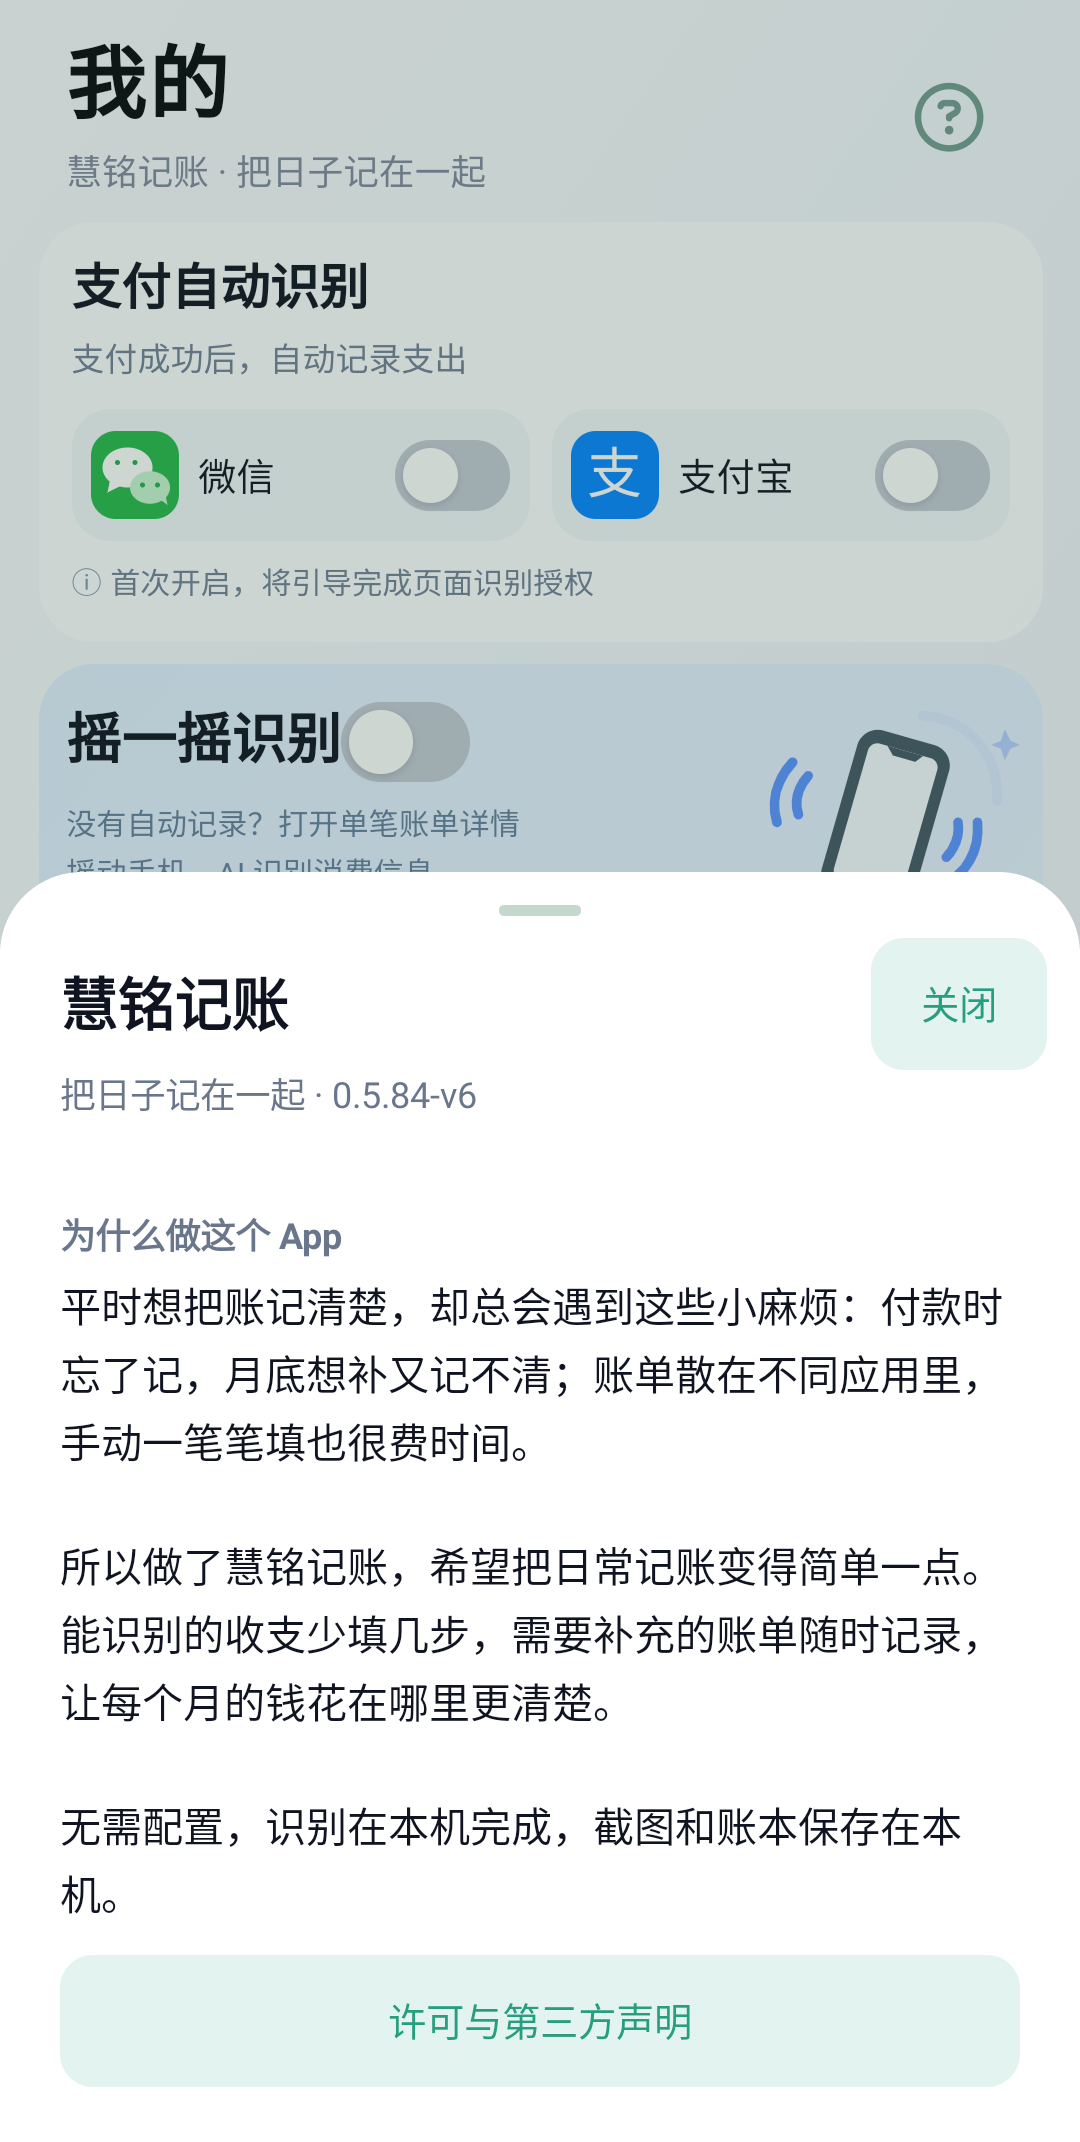
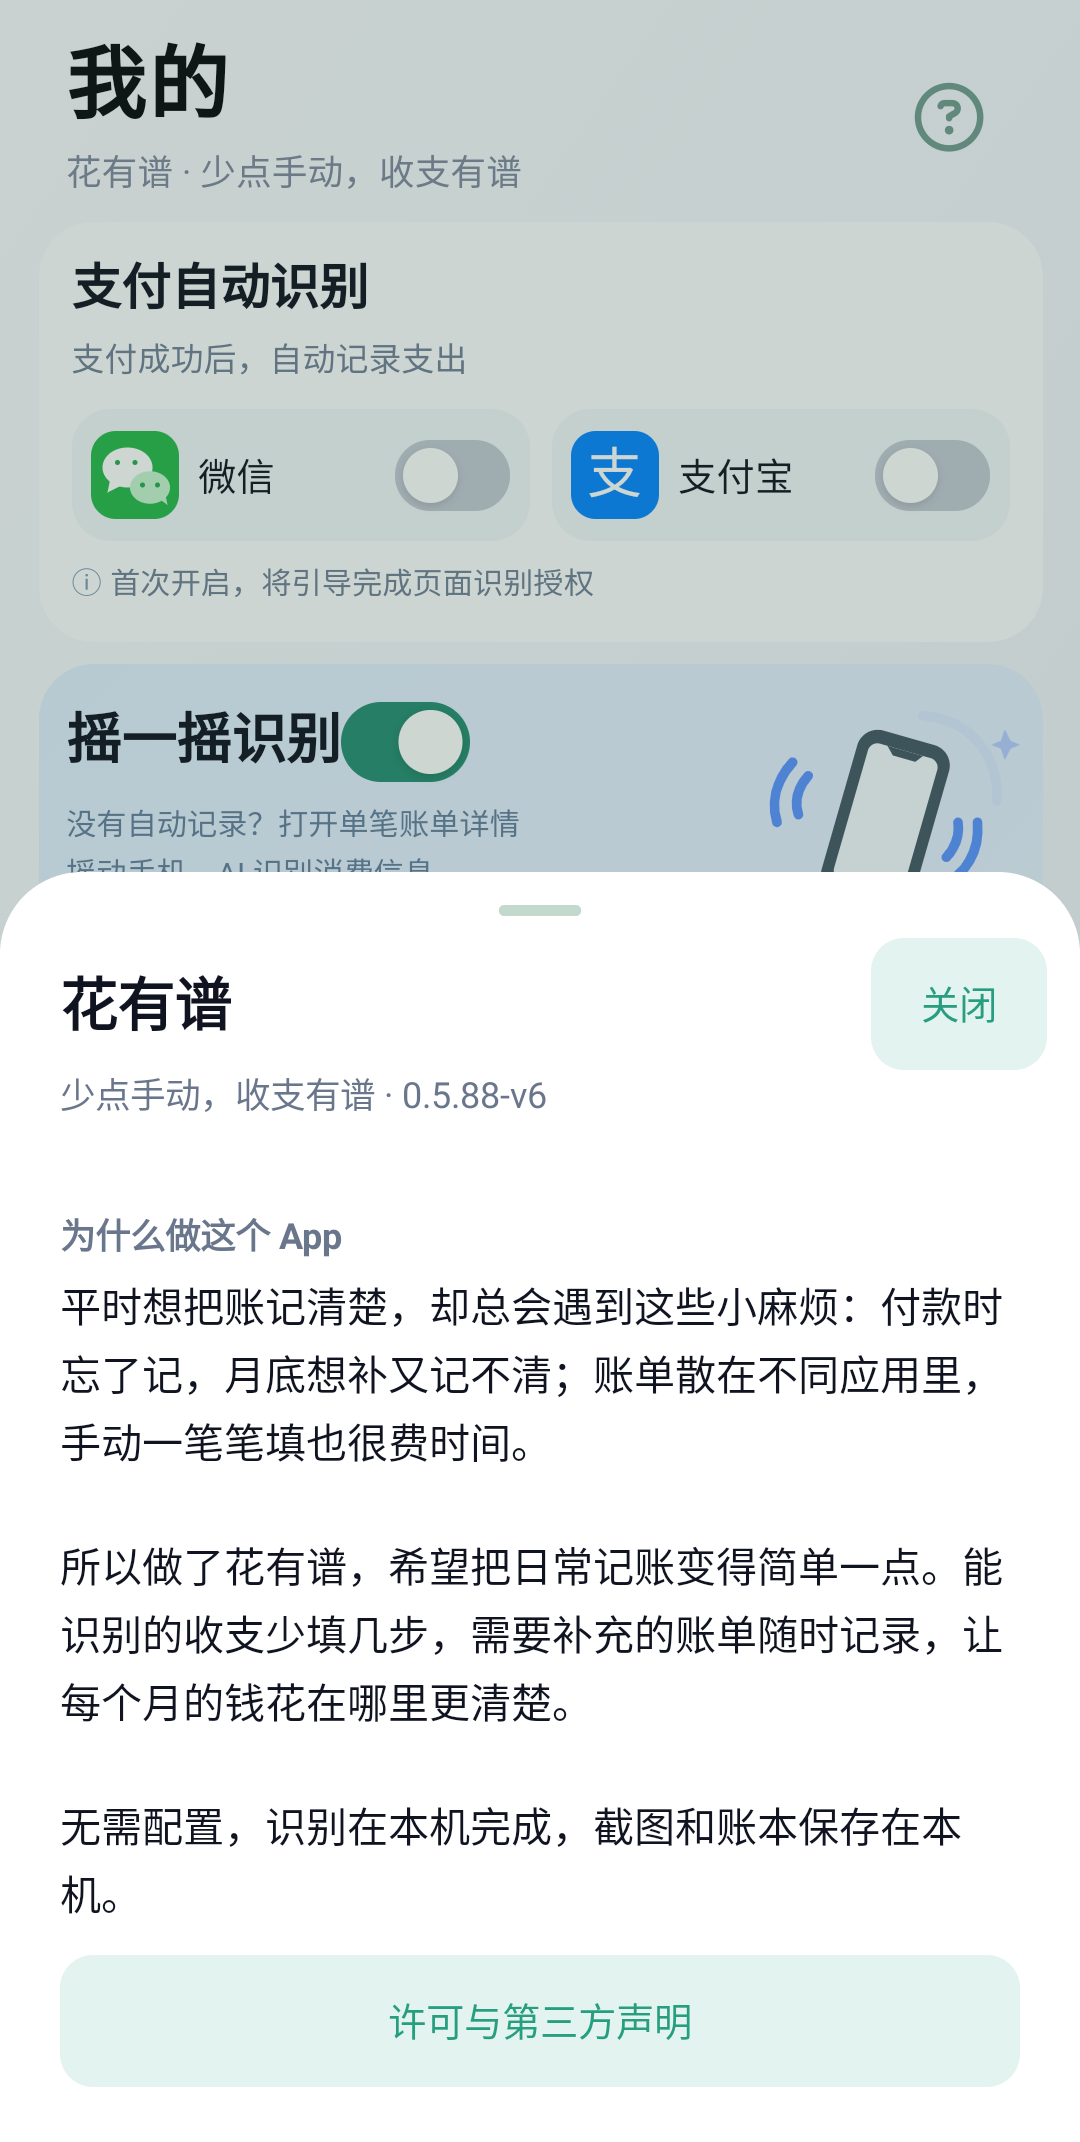
Rename repository and refresh Huayoupu emulator gallery

diff --git a/core/src/main/kotlin/net/ankio/ledger/core/PermissionGuidance.kt b/core/src/main/kotlin/net/ankio/ledger/core/PermissionGuidance.kt
@@ -11,8 +11,8 @@ data class PermissionGuidance(
     val autostartSearch:String,val taskLockInstruction:String
 ) {
     val deviceLabel get()="$label ${device.model} · Android ${device.androidVersion}"
-    val accessibilityHint get()="系统设置搜索「$accessibilitySearch」，找到慧铭记账并开启页面识别"
-    val batteryHint get()="应用信息中检查「$batterySearch」，允许慧铭记账后台运行"
+    val accessibilityHint get()="系统设置搜索「$accessibilitySearch」，找到花有谱并开启页面识别"
+    val batteryHint get()="应用信息中检查「$batterySearch」，允许花有谱后台运行"
     val autostartHint get()="设置中搜索「$autostartSearch」；无此项可跳过"
     val restrictedHint get()=if(device.sdk>=33)"如提示受限，进入应用信息，查找「允许受限设置」并按系统提示验证" else "如系统拦截开启，请进入应用信息，按系统提示检查权限限制"
     val permissionMessage get()="请开启页面识别"
@@ -39,7 +39,7 @@ data class PermissionGuidance(
             val accessibility=when(family){"xiaomi"->"无障碍";"oppo","oneplus","realme","vivo","huawei","honor"->"无障碍";"samsung"->"无障碍 / 已安装的应用";else->"无障碍"}
             val battery=when(family){"xiaomi"->"省电策略 / 无限制";"oppo","oneplus","realme"->"耗电管理 / 允许后台活动";"vivo"->"后台耗电管理";"huawei","honor"->"应用启动管理 / 允许后台活动";"samsung"->"电池 / 不受限制";"meizu"->"后台管理";else->"电池 / 后台使用"}
             val autostart=when(family){"xiaomi"->"自启动管理";"oppo","oneplus","realme","vivo","meizu"->"自启动";"huawei","honor"->"应用启动管理";"samsung"->"后台使用限制 / 从不休眠的应用";else->"应用后台使用"}
-            val task=when(family){"xiaomi"->"最近任务 → 慧铭记账卡片 → 长按检查锁定选项";"oppo","oneplus","realme","vivo"->"最近任务 → 慧铭记账卡片菜单 → 检查锁定选项";"huawei","honor"->"最近任务 → 慧铭记账卡片 → 检查下拉锁定选项";"samsung"->"最近任务 → 慧铭记账图标菜单 → 检查保持打开选项";else->"最近任务 → 慧铭记账卡片菜单 → 检查保留后台选项"}
+            val task=when(family){"xiaomi"->"最近任务 → 花有谱卡片 → 长按检查锁定选项";"oppo","oneplus","realme","vivo"->"最近任务 → 花有谱卡片菜单 → 检查锁定选项";"huawei","honor"->"最近任务 → 花有谱卡片 → 检查下拉锁定选项";"samsung"->"最近任务 → 花有谱图标菜单 → 检查保持打开选项";else->"最近任务 → 花有谱卡片菜单 → 检查保留后台选项"}
             return PermissionGuidance(family,label,clean,accessibility,battery,autostart,task)
         }
     }

diff --git a/.github/REFERENCE.md b/.github/REFERENCE.md
@@ -17,7 +17,7 @@
 
 ## 微信 / 支付宝无感识别优化
 
-以下优化已在 **0.5.85-v6** 完成验证，改名版本 **0.5.87-v6** 保留这些实现。这里的“无感”是指：完成首次授权并开启对应应用后，在受支持的支付成功页上，**无需再摇动手机、手动截图或切回花有谱，即可在本机识别并入账**。识别仍会短暂显示进度或结果；不代表完全没有提示，也不保证所有页面都能自动采集。
+以下优化已在 **0.5.85-v6** 完成验证，改名版本 **0.5.88-v6** 保留这些实现。这里的“无感”是指：完成首次授权并开启对应应用后，在受支持的支付成功页上，**无需再摇动手机、手动截图或切回花有谱，即可在本机识别并入账**。识别仍会短暂显示进度或结果；不代表完全没有提示，也不保证所有页面都能自动采集。
 
 | 优化 | 解决的问题与当前行为 |
 | --- | --- |
@@ -128,7 +128,7 @@ Manifest 不声明 `READ_SMS` / `RECEIVE_SMS` / `POST_NOTIFICATIONS`，没有注
 
 ## 安装与快速开始
 
-需要 **Android 11 或更新版本的 ARM64 手机**。在 [最新 Release](https://github.com/AldenHe/huiming-ledger/releases/latest) 下载安装 APK（改名后文件前缀为 `Huayoupu-Ledger-`，历史版本为 `Huiming-Ledger-`）；同页提供 SHA-256 校验值和对应源码。也可[自行从源码构建](#从源码构建)。
+需要 **Android 11 或更新版本的 ARM64 手机**。在 [最新 Release](https://github.com/AldenHe/huayoupu-ledger/releases/latest) 下载安装 APK（改名后文件前缀为 `Huayoupu-Ledger-`，历史版本为 `Huiming-Ledger-`）；同页提供 SHA-256 校验值和对应源码。也可[自行从源码构建](#从源码构建)。
 
 1. **安装应用**：下载安装 APK；打开花有谱即可手动记录收支。从本地调试版切换时，若系统提示签名不一致，请先导出完整备份，再卸载旧版、安装并恢复备份。
 2. **开启自动记账**：进入「我的」，在「支付自动识别」中开启需要的微信或支付宝开关。
@@ -248,7 +248,7 @@ bash ./gradlew -PledgerPython=python3 -PledgerAbi=x86_64 :app:connectedDebugAndr
 生成可审查的源码 ZIP：
 
 ```sh
-python3 scripts/check-public-source.py --output output/Huiming-Ledger-source.zip
+python3 scripts/check-public-source.py --output output/Huayoupu-Ledger-source.zip
 ```
 
 命令检查当前文件集并排除本机缓存、日志、截图、签名文件和原型原件，不导出 Git 历史。本机工具链安装在项目目录外。生成的 `.tools/`、各模块 `build/` 和测试依赖目录仅为可重建缓存，无需提交；README 展示用截图保存在 `.github/screenshots/`；日常调试截图、验证报告及临时安装包应保存到项目外。已有 Git 历史需要单独检查。

diff --git a/README.md b/README.md
@@ -10,7 +10,7 @@
 
 <p align="center">Android 11+ · 离线 OCR · 本地账本 · GPL-3.0-only</p>
 
-<p align="center"><a href="https://github.com/AldenHe/huiming-ledger/releases/latest">下载 Android APK</a> · <a href="https://github.com/AldenHe/huiming-ledger/actions/workflows/android.yml">构建与测试</a></p>
+<p align="center"><a href="https://github.com/AldenHe/huayoupu-ledger/releases/latest">下载 Android APK</a> · <a href="https://github.com/AldenHe/huayoupu-ledger/actions/workflows/android.yml">构建与测试</a></p>
 
 ## 能做什么
 
@@ -24,7 +24,7 @@
 
 ## 界面预览
 
-以下为应用在 Android 模拟器中**实际运行的页面截图**，使用示例账单与账户数据；点击图片可放大。部分功能截图来自改名前版本，仍显示旧名称“慧铭记账”；当前应用已更名为“花有谱”。
+以下为应用在 Android 模拟器中**实际运行的页面截图**，使用示例账单与账户数据；点击图片可放大。截图已更新为“花有谱”版本，画面中的账单与账户为示例数据。
 
 | 首页账本 | 收支统计 | 资产管理 |
 | :---: | :---: | :---: |
@@ -125,7 +125,7 @@ V6 Tiny 的检测与识别权重合计约 **5.95 MiB**，V5 mobile 约 **20.37 M
 
 ## 开始使用
 
-1. 从 [最新 Release](https://github.com/AldenHe/huiming-ledger/releases/latest) 下载 `arm64-v8a.apk` 并安装，在「我的」开启微信 / 支付宝自动识别或摇一摇，按引导完成授权。
+1. 从 [最新 Release](https://github.com/AldenHe/huayoupu-ledger/releases/latest) 下载 `arm64-v8a.apk` 并安装，在「我的」开启微信 / 支付宝自动识别或摇一摇，按引导完成授权。
 2. 在支持的支付成功页完成自动记账；漏记时用摇一摇、截图导入或手动补记。
 3. 回到账本核对记录；换机或卸载前，从「账单与备份」导出完整备份。
 
